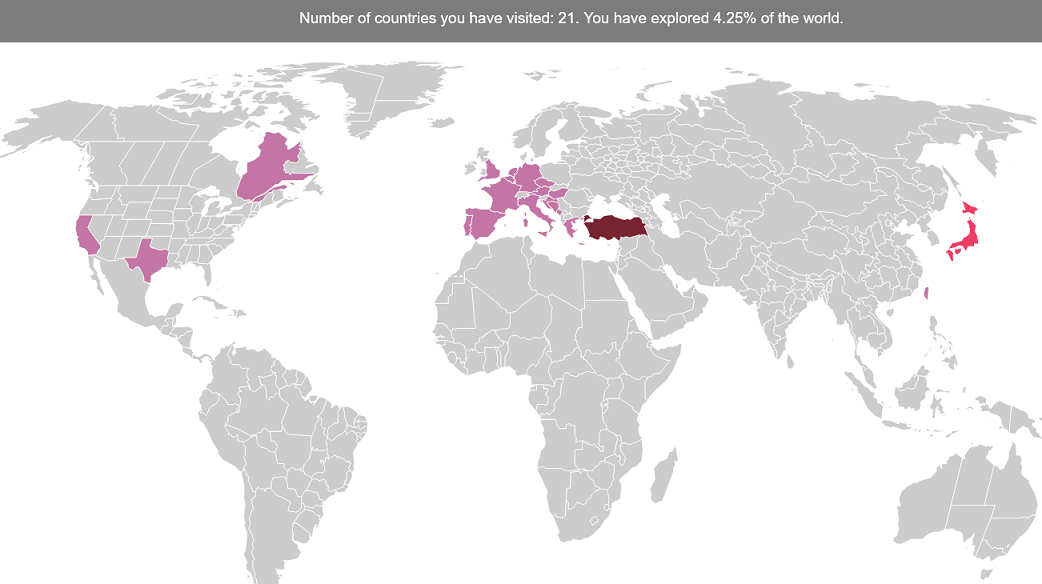
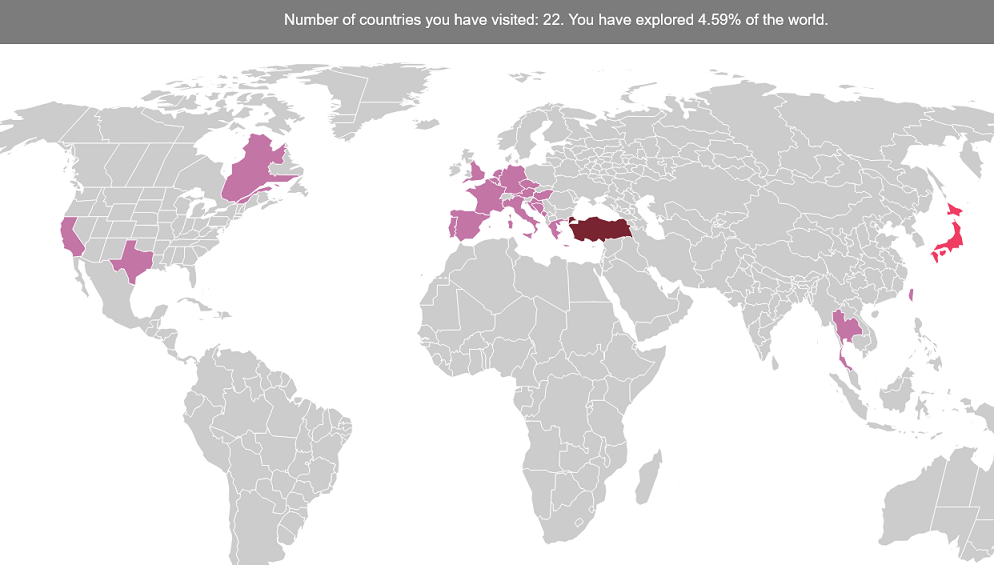
no message

diff --git a/conferences.html b/conferences.html
@@ -55,25 +55,26 @@
 				<div class="banner_content">				
 					<h1>Conferences</h1>					
 						<h2>Upcoming</h2>							
-						<ul class="ftco-social mt-3">		
-							
-							
-							<a href="hustef23.html"> <img src="img\conferences\hustefLogo.png" style="width: 50px; height: 50px;"></a>
-							<a href="heisenbug23-2.html"> <img src="img\conferences\heisenbug.jpg" style="width: 50px; height: 50px;"></a>
-							<a href="qualitycon.html"> <img src="img\conferences\qualitycon.png" style="width: 50px; height: 50px;"></a>
-							<a href="stw.html"> <img src="img\conferences\stw.png" style="width: 50px; height: 50px;"></a>
-							<a href="pnsqc23.html"> <img src="img\conferences\pnsqc.jpg" style="width: 50px; height: 50px;"></a>
-							<a href="qstag23.html"> <img src="img\conferences\qstagLogo.jpeg" style="width: 50px; height: 50px;"></a>
+						<ul class="ftco-social mt-3">									
 							<a href="addo23.html"> <img src="img\conferences\addo.png" style="width: 50px; height: 50px;"></a>
 							<a href="atd23.html"> <img src="img\conferences\atd.png" style="width: 50px; height: 50px;"></a>
 							<a href="ucaat23.html"> <img src="img\conferences\ucaatLogo.jpg" style="width: 50px; height: 50px;"></a>
+							<a href="dss.html"> <img src="img\conferences\dss.png" style="width: 50px; height: 50px;"></a>
+							<a href="tas.html"> <img src="img\conferences\tas.png" style="width: 50px; height: 50px;"></a>
 							<a href="testjs.html"> <img src="img\conferences\testjs.png" style="width: 50px; height: 50px;"></a>
+							<a href="90days.html"> <img src="img\conferences\90days.png" style="width: 50px; height: 50px;"></a>
 							<a href="ittage23.html"> <img src="img\conferences\ittage23.png" style="width: 50px; height: 50px;"></a>
 						</ul><br>						
 						
 						<h2>Given</h2>
 						<ul class="ftco-social mt-3">
 							<img src="img\conferences\2023.png" style="width: 50px; height: 50px;">
+							<a href="hustef23.html"> <img src="img\conferences\hustefLogo.png" style="width: 50px; height: 50px;"></a>
+							<a href="heisenbug23-2.html"> <img src="img\conferences\heisenbug.jpg" style="width: 50px; height: 50px;"></a>
+							<a href="qualitycon.html"> <img src="img\conferences\qualitycon.png" style="width: 50px; height: 50px;"></a>
+							<a href="stw.html"> <img src="img\conferences\stw.png" style="width: 50px; height: 50px;"></a>
+							<a href="pnsqc23.html"> <img src="img\conferences\pnsqc.jpg" style="width: 50px; height: 50px;"></a>
+							<a href="qstag23.html"> <img src="img\conferences\qstagLogo.jpeg" style="width: 50px; height: 50px;"></a>
 							<a href="testflix23.html"> <img src="img\conferences\testflix.png" style="width: 50px; height: 50px;"></a>
 							<a href="taipei.html"> <img src="img\conferences\taipei.png" style="width: 50px; height: 50px;"></a>
 							<a href="handson23.html"> <img src="img\conferences\handson.png" style="width: 50px; height: 50px;"></a>
@@ -198,6 +199,7 @@
 						<a href="https://www.infoq.com/news/2021/03/machine-learning-testing/?utm_campaign=infoq_content&utm_source=twitter&utm_medium=feed&utm_term=culture-methods" target="_blank"><img src="img/conferences/infoq.png" style="width: 50px; height: 50px;">
 						<a href="https://www.bugraptors.com/blog/tech-talks-with-mesut-durukal" target="_blank"><img src="img/conferences/bugraptors.png" style="width: 50px; height: 50px;"></a>
 						<a href="https://www.bigdataworldasia.com/show-news/ai-meets-software-testing-insights-indeeds-mesut-durukal" target="_blank"><img src="img\conferences\stw.png" style="width: 50px; height: 50px;"></a>
+						<a href="https://www.thetesttribe.com/blog/roadmap-playwright-tool/?" target="_blank"><img src="img\conferences\tribe.png" style="width: 50px; height: 50px;"></a>
 					</ul>
 					
 					<h1>Books & Contributions</h1>													
@@ -216,7 +218,6 @@
 						<a href="https://www.agilealliance.org/wp-content/uploads/2021/06/M.Durukal.Do-Bugs-Speak.pdf" target="_blank"><img src="img/conferences/agile2021.png" style="width: 50px; height: 50px;">
 						<a href="https://www.pnsqc.org/docs/PROP54426337-DurukalFinal_Camera-Ready.pdf" target="_blank"><img src="img/conferences/pnsqc.jpg" style="width: 50px; height: 50px;"></a>
 					</ul>
-					
 					
 					
 					<h1>Recordings</h1>						
@@ -256,6 +257,7 @@
 							<a href="https://youtu.be/WTZhmgJXSos"> <img src="img/conferences/festive.png" style="width: 50px; height: 50px;"> 								
 							<a href="https://youtu.be/Pyeqnd8GL3k"> <img src="img/conferences/jsworld.png" style="width: 50px; height: 50px;"> 								
 							<a href="https://youtu.be/43fP9Vt8hX0"> <img src="img/conferences/codegen.png" style="width: 50px; height: 50px;"> </a>								
+							<a href="https://youtu.be/Dvkr0yG6Ngg"> <img src="img/conferences/heisenbug.jpg" style="width: 50px; height: 50px;"> </a>								
 						</li>  	<br>
 						<li style="font-size:30px" class="nav-item active">Testing as a Service<br>
 							<a href="https://youtu.be/q5k06zagUBk"> <img src="img/conferences/teaser.jpg" style="width: 50px; height: 50px;"></a> 

diff --git a/thailand.html b/thailand.html
@@ -49,34 +49,31 @@
         </header>
         <!--================Header Menu Area =================-->
         
-        <!--================Home Banner Area =================-->
 
-		<section class="home_banner_area">
-           	<div class="container box_1620">
-           		<div class="banner_inner d-flex align-items-center">
-					<div class="banner_content">
-						<div class="media">
-							<div class="d-flex">
-								<iframe  src="https://www.youtube.com/embed/Dvkr0yG6Ngg" frameborder="0" allow="accelerometer; autoplay; encrypted-media; gyroscope; picture-in-picture" allowfullscreen></iframe>
-							</div>
-									
+        
+        <section class="home_banner_area">
+        <!-- Start Sample Area -->
+			<section class="sample-text-area">
+				<div class="container"></div>
+			
+			<!-- End Sample Area -->
+			<!-- Start Align Area -->
+			<div class="whole-wrap">
+				<div class="container">
+					<div class="section-top-border">						
+						<div class="row gallery-item">
+							<div class="col-md-4">
+								<a href="img/travel/travel_bangkok.jpg" class="img-gal"><div class="single-gallery-image" style="background: url(img/travel/travel_bangkok.jpg);"></div></a>
+								Bangkok
+							</div>																	
 						</div>
-						<div class="media-body">
-							<div class="personal_text">
-								<a href="https://heisenbug.ru/en/" target="_blank">Heisenbug</a><br>													
-							</div>
-						</div>					
 					</div>
 				</div>
-            </div>
-        </section>
-		
-        <!--================End Home Banner Area =================-->
+			</div>
+			<!-- End Align Area -->
         
-       
-       
-        
-        
+       </section>
+	   </section>
         
         
         
@@ -89,7 +86,7 @@
         <script src="js/stellar.js"></script>
         <script src="vendors/lightbox/simpleLightbox.min.js"></script>
         <script src="vendors/nice-select/js/jquery.nice-select.min.js"></script>
-        <script src="vendors/isotope/img\travelloaded.pkgd.min.js"></script>
+        <script src="vendors/isotope/imagesloaded.pkgd.min.js"></script>
         <script src="vendors/isotope/isotope.pkgd.min.js"></script>
         <script src="vendors/owl-carousel/owl.carousel.min.js"></script>
         <script src="vendors/popup/jquery.magnific-popup.min.js"></script>

diff --git a/heisenbug23-2.html b/heisenbug23-2.html
@@ -57,15 +57,16 @@
 					<div class="banner_content">
 						<div class="media">
 							<div class="d-flex">
-								<iframe  src="https://www.youtube.com/embed/Dvkr0yG6Ngg" frameborder="0" allow="accelerometer; autoplay; encrypted-media; gyroscope; picture-in-picture" allowfullscreen></iframe>
+								<img src="img/conferences/comingsoon.jpg" alt="">
 							</div>
 									
 						</div>
-						<div class="media-body">
-							<div class="personal_text">
-								<a href="https://heisenbug.ru/en/" target="_blank">Heisenbug</a><br>													
+							<div class="media-body">
+								<div class="personal_text">
+									<a href="https://heisenbug.ru/en/" target="_blank">Heisenbug</a><br>													
+								</div>
 							</div>
-						</div>					
+						</div>						
 					</div>
 				</div>
             </div>

diff --git a/greece.html b/greece.html
@@ -68,7 +68,11 @@
 							</div>																	<div class="col-md-4">
 								<a href="img/travel/travel_santorini.jpg" class="img-gal"><div class="single-gallery-image" style="background: url(img/travel/travel_santorini.jpg);"></div></a>
 								Santorini
-							</div>			
+							</div>
+							</div>																	<div class="col-md-4">
+								<a href="img/travel/travel_mykonos.jpg" class="img-gal"><div class="single-gallery-image" style="background: url(img/travel/travel_mykonos.jpg);"></div></a>
+								Mykonos
+							</div>								
 						</div>
 					</div>
 				</div>

diff --git a/travel.html b/travel.html
@@ -81,6 +81,7 @@
 										<a href="england.html"> <img src="img\travel\icon_england.png" style="width: 30px; height: 30px;"> </a>
 										<a href="singapore.html"> <img src="img\travel\icon_singapore.png" style="width: 30px; height: 30px;"> </a>
 										<a href="taiwan.html"> <img src="img\travel\icon_taiwan.png" style="width: 30px; height: 30px;"> </a>
+										<a href="thailand.html"> <img src="img\travel\icon_thai.png" style="width: 30px; height: 30px;"> </a>
 									</ul>												
 								</div>
 							</div>
